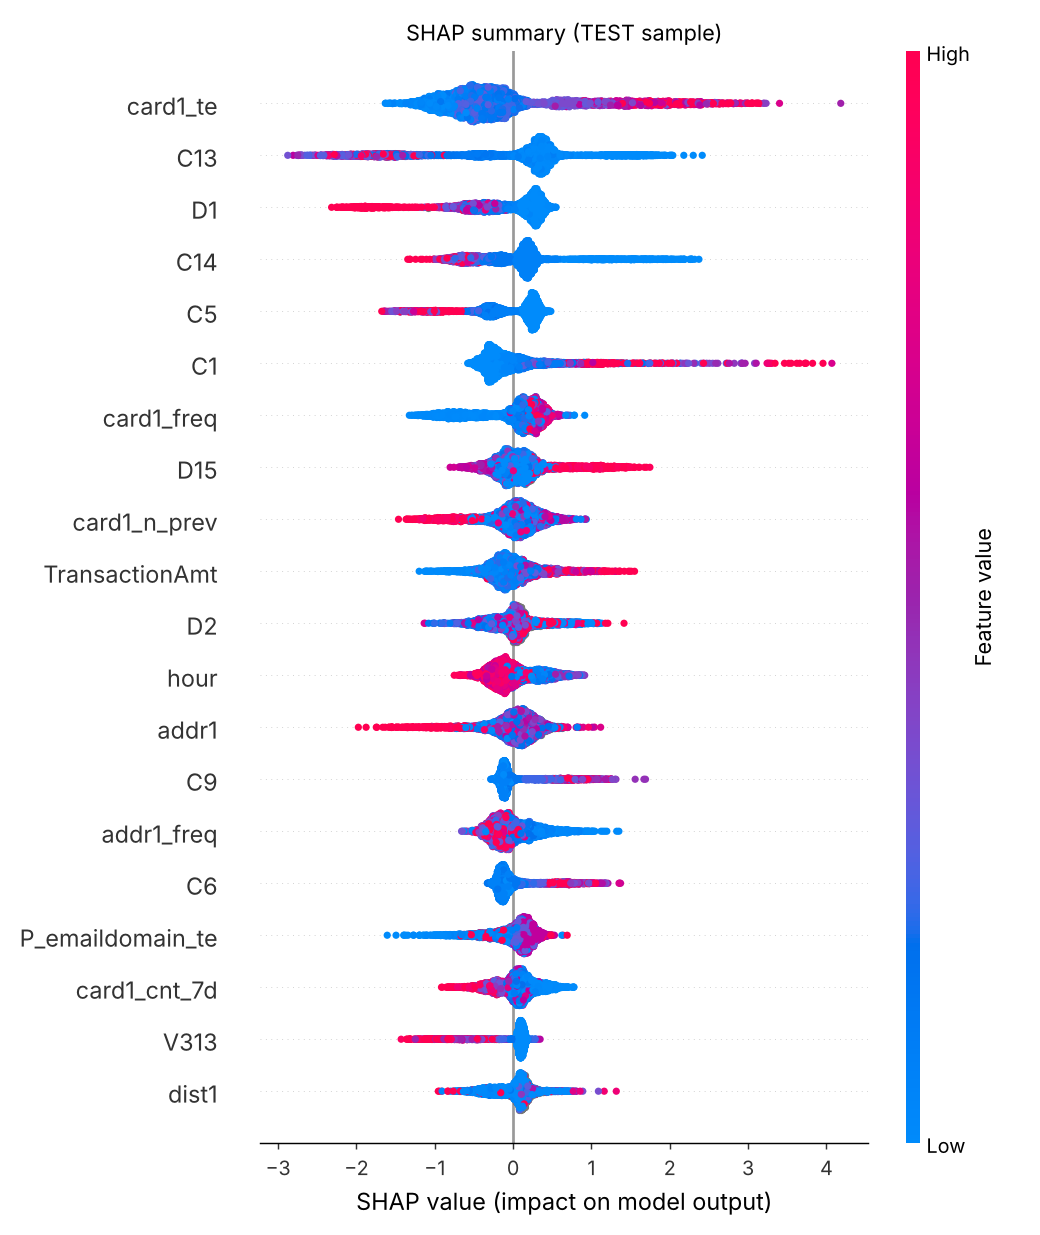
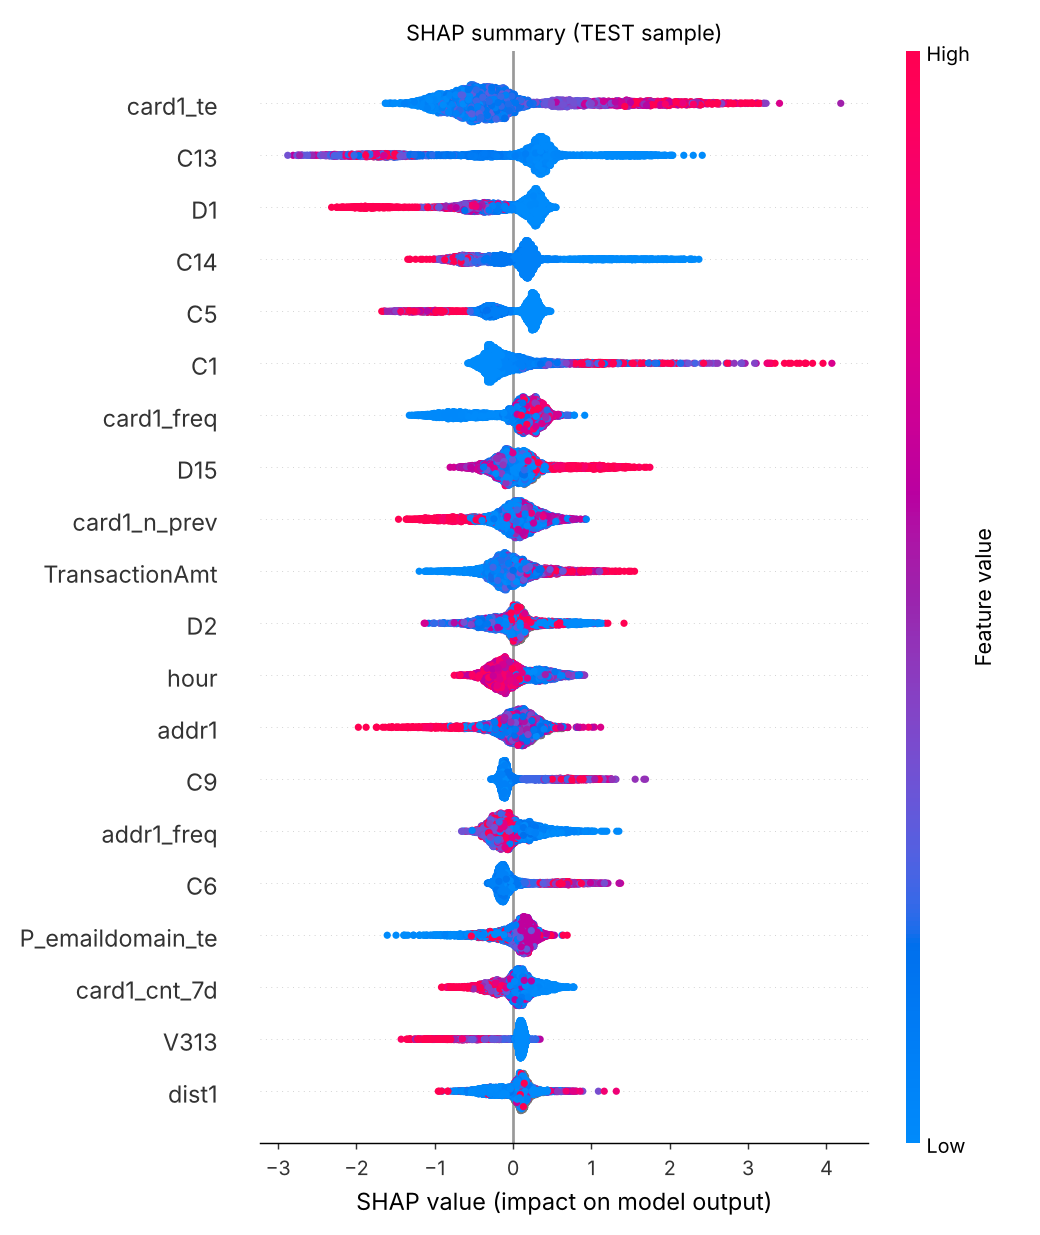
Phase 5: MLflow tracking (params, metrics, plots, feature list, split dates, git commit) and registry with champion/challenger aliases
Claude-Session: https://claude.ai/code/session_01UoL1QhjcZL3F1rTKuTv7zH

diff --git a/src/fraud/train/registry.py b/src/fraud/train/registry.py
@@ -1,0 +1,181 @@
+"""MLflow tracking + model registry helpers (champion / challenger aliases)."""
+
+from __future__ import annotations
+
+import logging
+import os
+import subprocess
+import tempfile
+from pathlib import Path
+from typing import Any
+
+import mlflow
+from mlflow import MlflowClient
+
+from fraud.config import ROOT, load_config, path
+from fraud.model import ModelBundle
+
+log = logging.getLogger(__name__)
+
+CHAMPION, CHALLENGER = "champion", "challenger"
+
+
+def tracking_uri() -> str:
+    return os.environ.get("MLFLOW_TRACKING_URI", "http://localhost:5000")
+
+
+def model_name() -> str:
+    return os.environ.get("MODEL_NAME", load_config()["train"]["registered_model_name"])
+
+
+def git_commit() -> str:
+    if os.environ.get("GIT_COMMIT"):
+        return os.environ["GIT_COMMIT"]
+    try:
+        out = subprocess.run(
+            ["git", "rev-parse", "HEAD"], cwd=ROOT, capture_output=True, text=True, check=True
+        )
+        dirty = subprocess.run(
+            ["git", "status", "--porcelain"], cwd=ROOT, capture_output=True, text=True
+        )
+        return out.stdout.strip() + ("-dirty" if dirty.stdout.strip() else "")
+    except (OSError, subprocess.CalledProcessError):
+        return "unknown"
+
+
+class FraudPyfunc(mlflow.pyfunc.PythonModel):
+    """pyfunc wrapper so the registered model is loadable by generic MLflow tooling.
+
+    Input: offline feature frame (fraud.features.history output). Output: calibrated probability.
+    The API skips pyfunc and loads the bundle file directly for lower latency.
+    """
+
+    def load_context(self, context: Any) -> None:
+        self.bundle = ModelBundle.load(context.artifacts["bundle"])
+
+    def predict(self, context: Any, model_input: Any, params: Any = None) -> Any:
+        return self.bundle.predict_proba(self.bundle.matrix(model_input))
+
+
+def _flat(d: dict[str, Any], prefix: str = "") -> dict[str, Any]:
+    out: dict[str, Any] = {}
+    for k, v in d.items():
+        key = f"{prefix}{k}"
+        if isinstance(v, dict):
+            out |= _flat(v, f"{key}.")
+        elif isinstance(v, int | float | str | bool):
+            out[key] = v
+    return out
+
+
+def log_bundle(bundle_path: Path, metadata: dict[str, Any]) -> Any:
+    return mlflow.pyfunc.log_model(
+        name="model",
+        python_model=FraudPyfunc(),
+        artifacts={"bundle": str(bundle_path)},
+        pip_requirements=["lightgbm", "pandas", "numpy", "scikit-learn", "pyyaml"],
+        metadata={k: v for k, v in metadata.items() if isinstance(v, str | int | float)},
+    )
+
+
+def register(model_uri: str, tags: dict[str, str] | None = None) -> str:
+    """Register a logged model; the first version becomes champion, later ones challenger."""
+    client = MlflowClient()
+    name = model_name()
+    mv = mlflow.register_model(model_uri, name, tags=tags)
+    try:
+        client.get_model_version_by_alias(name, CHAMPION)
+        client.set_registered_model_alias(name, CHALLENGER, mv.version)
+        log.info("registered %s v%s as %s", name, mv.version, CHALLENGER)
+    except mlflow.exceptions.MlflowException:
+        client.set_registered_model_alias(name, CHAMPION, mv.version)
+        log.info("registered %s v%s as %s (no champion existed)", name, mv.version, CHAMPION)
+    return str(mv.version)
+
+
+def log_training_run(
+    bundle: ModelBundle,
+    bundle_path: Path,
+    res: dict[str, Any],
+    extra: dict[str, Any],
+    names: list[str],
+    cfg: dict[str, Any],
+) -> str:
+    mlflow.set_tracking_uri(tracking_uri())
+    mlflow.set_experiment(cfg["train"]["experiment_name"])
+    md = bundle.metadata
+    with mlflow.start_run(run_name=f"train-{md['trained_at'][:19]}") as run:
+        mlflow.set_tags(
+            {
+                "git_commit": git_commit(),
+                "feature_version": md["feature_version"],
+                "sample": str(md["sample"]),
+                "kind": "initial_training",
+            }
+        )
+        split = md["split"]
+        mlflow.log_params(
+            {f"split.{s}.dates": " .. ".join(split["dates"][s]) for s in split["dates"]}
+            | {f"split.{s}.rows": split["rows"][s] for s in split["rows"]}
+            | {f"lgbm.{k}": v for k, v in md["params"].items()}
+            | {"n_features": len(names), "best_iteration": md["best_iteration"]}
+            | {f"cost.{k}": v for k, v in md["cost_params"].items()}
+            | {"chosen_weighting": extra["training"]["lightgbm"]["chosen_weighting"]}
+        )
+        for model, r in res["models"].items():
+            mlflow.log_metrics(
+                {
+                    f"{model}.{k}": r[k]
+                    for k in [
+                        "pr_auc",
+                        "roc_auc",
+                        "recall_at_1pct_fpr",
+                        "precision_at_80pct_recall",
+                        "brier",
+                        "test_cost",
+                        "saved_vs_no_model",
+                        "saved_vs_rules",
+                    ]
+                }
+            )
+        mlflow.log_metrics(
+            {
+                "threshold.review": bundle.thresholds.review,
+                "threshold.block": bundle.thresholds.block,
+            }
+            | {f"latency.{k}": v for k, v in md["latency_ms"].items()}
+            | {"test.no_model_cost": res["test"]["no_model_cost"]}
+        )
+        mlflow.log_dict(
+            {"features": names, "monitor_columns": md["monitor_columns"]}, "feature_list.json"
+        )
+        mlflow.log_dict(split, "split.json")
+        mlflow.log_dict(_flat(extra), "training_info.json")
+        rd = path("reports_dir")
+        for f in [
+            "results.md",
+            "metrics.json",
+            "pr_curve.png",
+            "calibration.png",
+            "feature_importance.png",
+            "shap_summary.png",
+        ]:
+            if (rd / f).exists():
+                mlflow.log_artifact(str(rd / f), "reports")
+        info = log_bundle(bundle_path, {"feature_version": md["feature_version"]})
+        version = register(info.model_uri, {"git_commit": git_commit(), "run_id": run.info.run_id})
+    return version
+
+
+def load_bundle(alias: str = CHAMPION) -> tuple[ModelBundle, str]:
+    """Download the bundle registered under `alias` (used by the API and the retrain flow)."""
+    mlflow.set_tracking_uri(tracking_uri())
+    client = MlflowClient()
+    mv = client.get_model_version_by_alias(model_name(), alias)
+    with tempfile.TemporaryDirectory() as tmp:
+        local = mlflow.artifacts.download_artifacts(
+            artifact_uri=f"models:/{model_name()}/{mv.version}", dst_path=tmp
+        )
+        bundle_file = next(Path(local).rglob("*.pkl"))
+        bundle = ModelBundle.load(bundle_file)
+    return bundle, str(mv.version)
